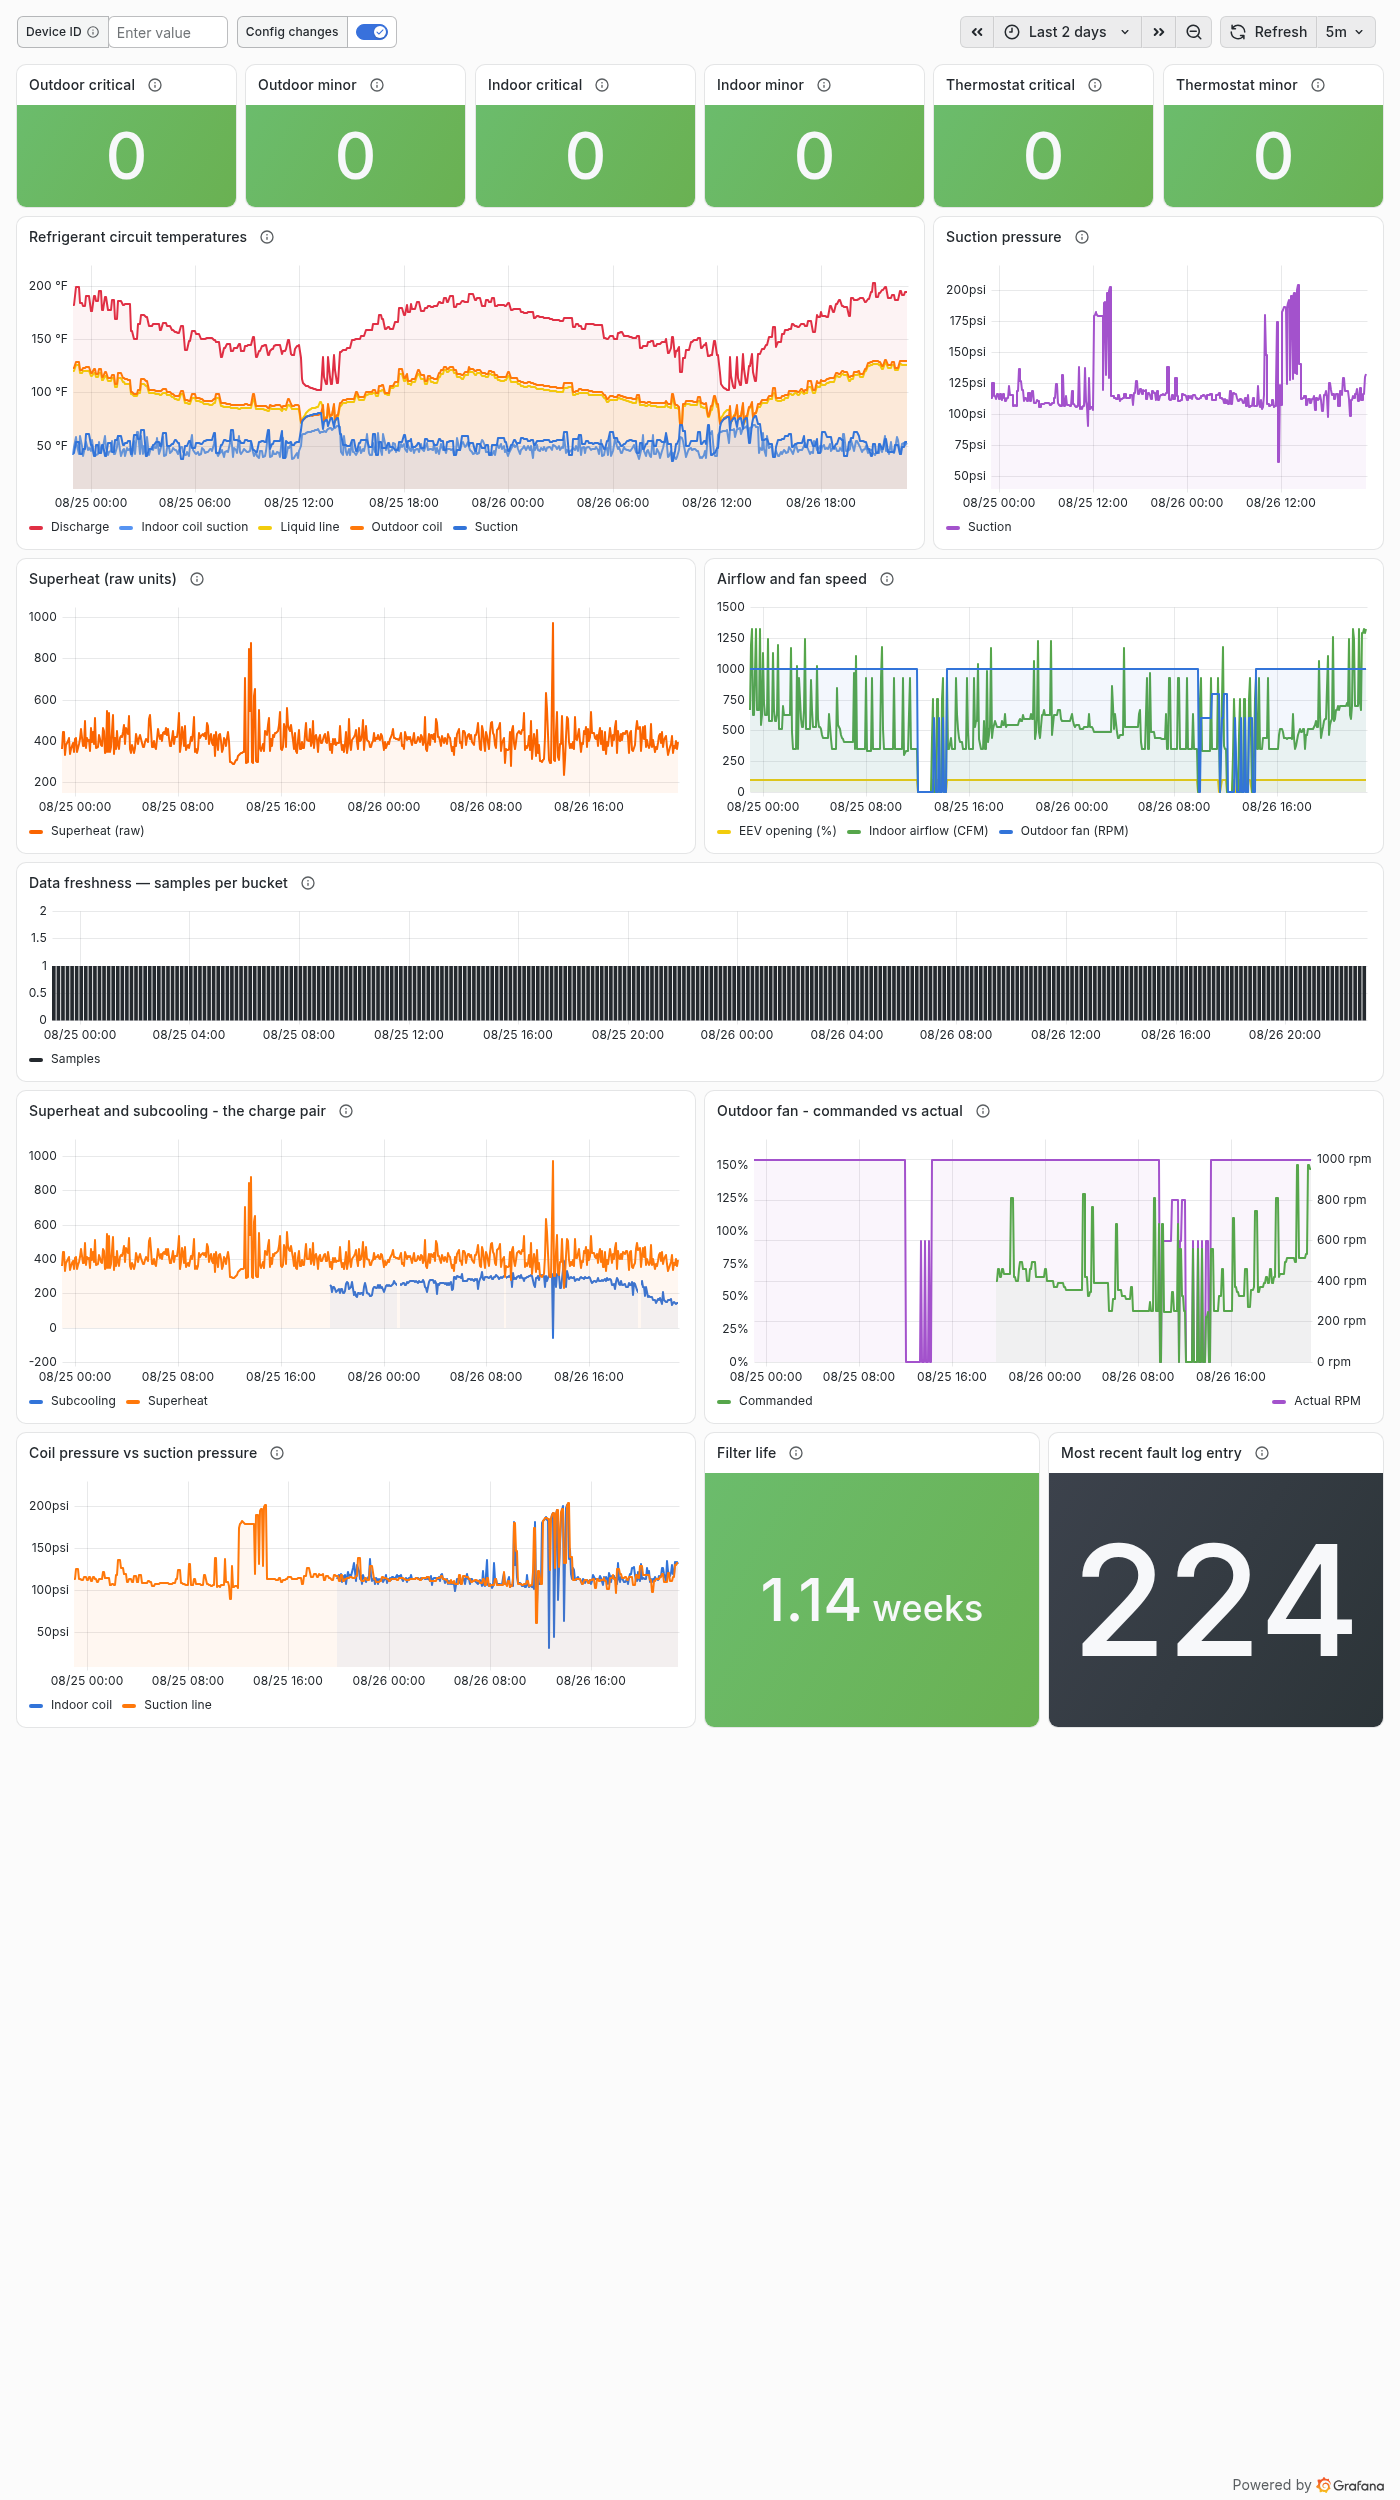
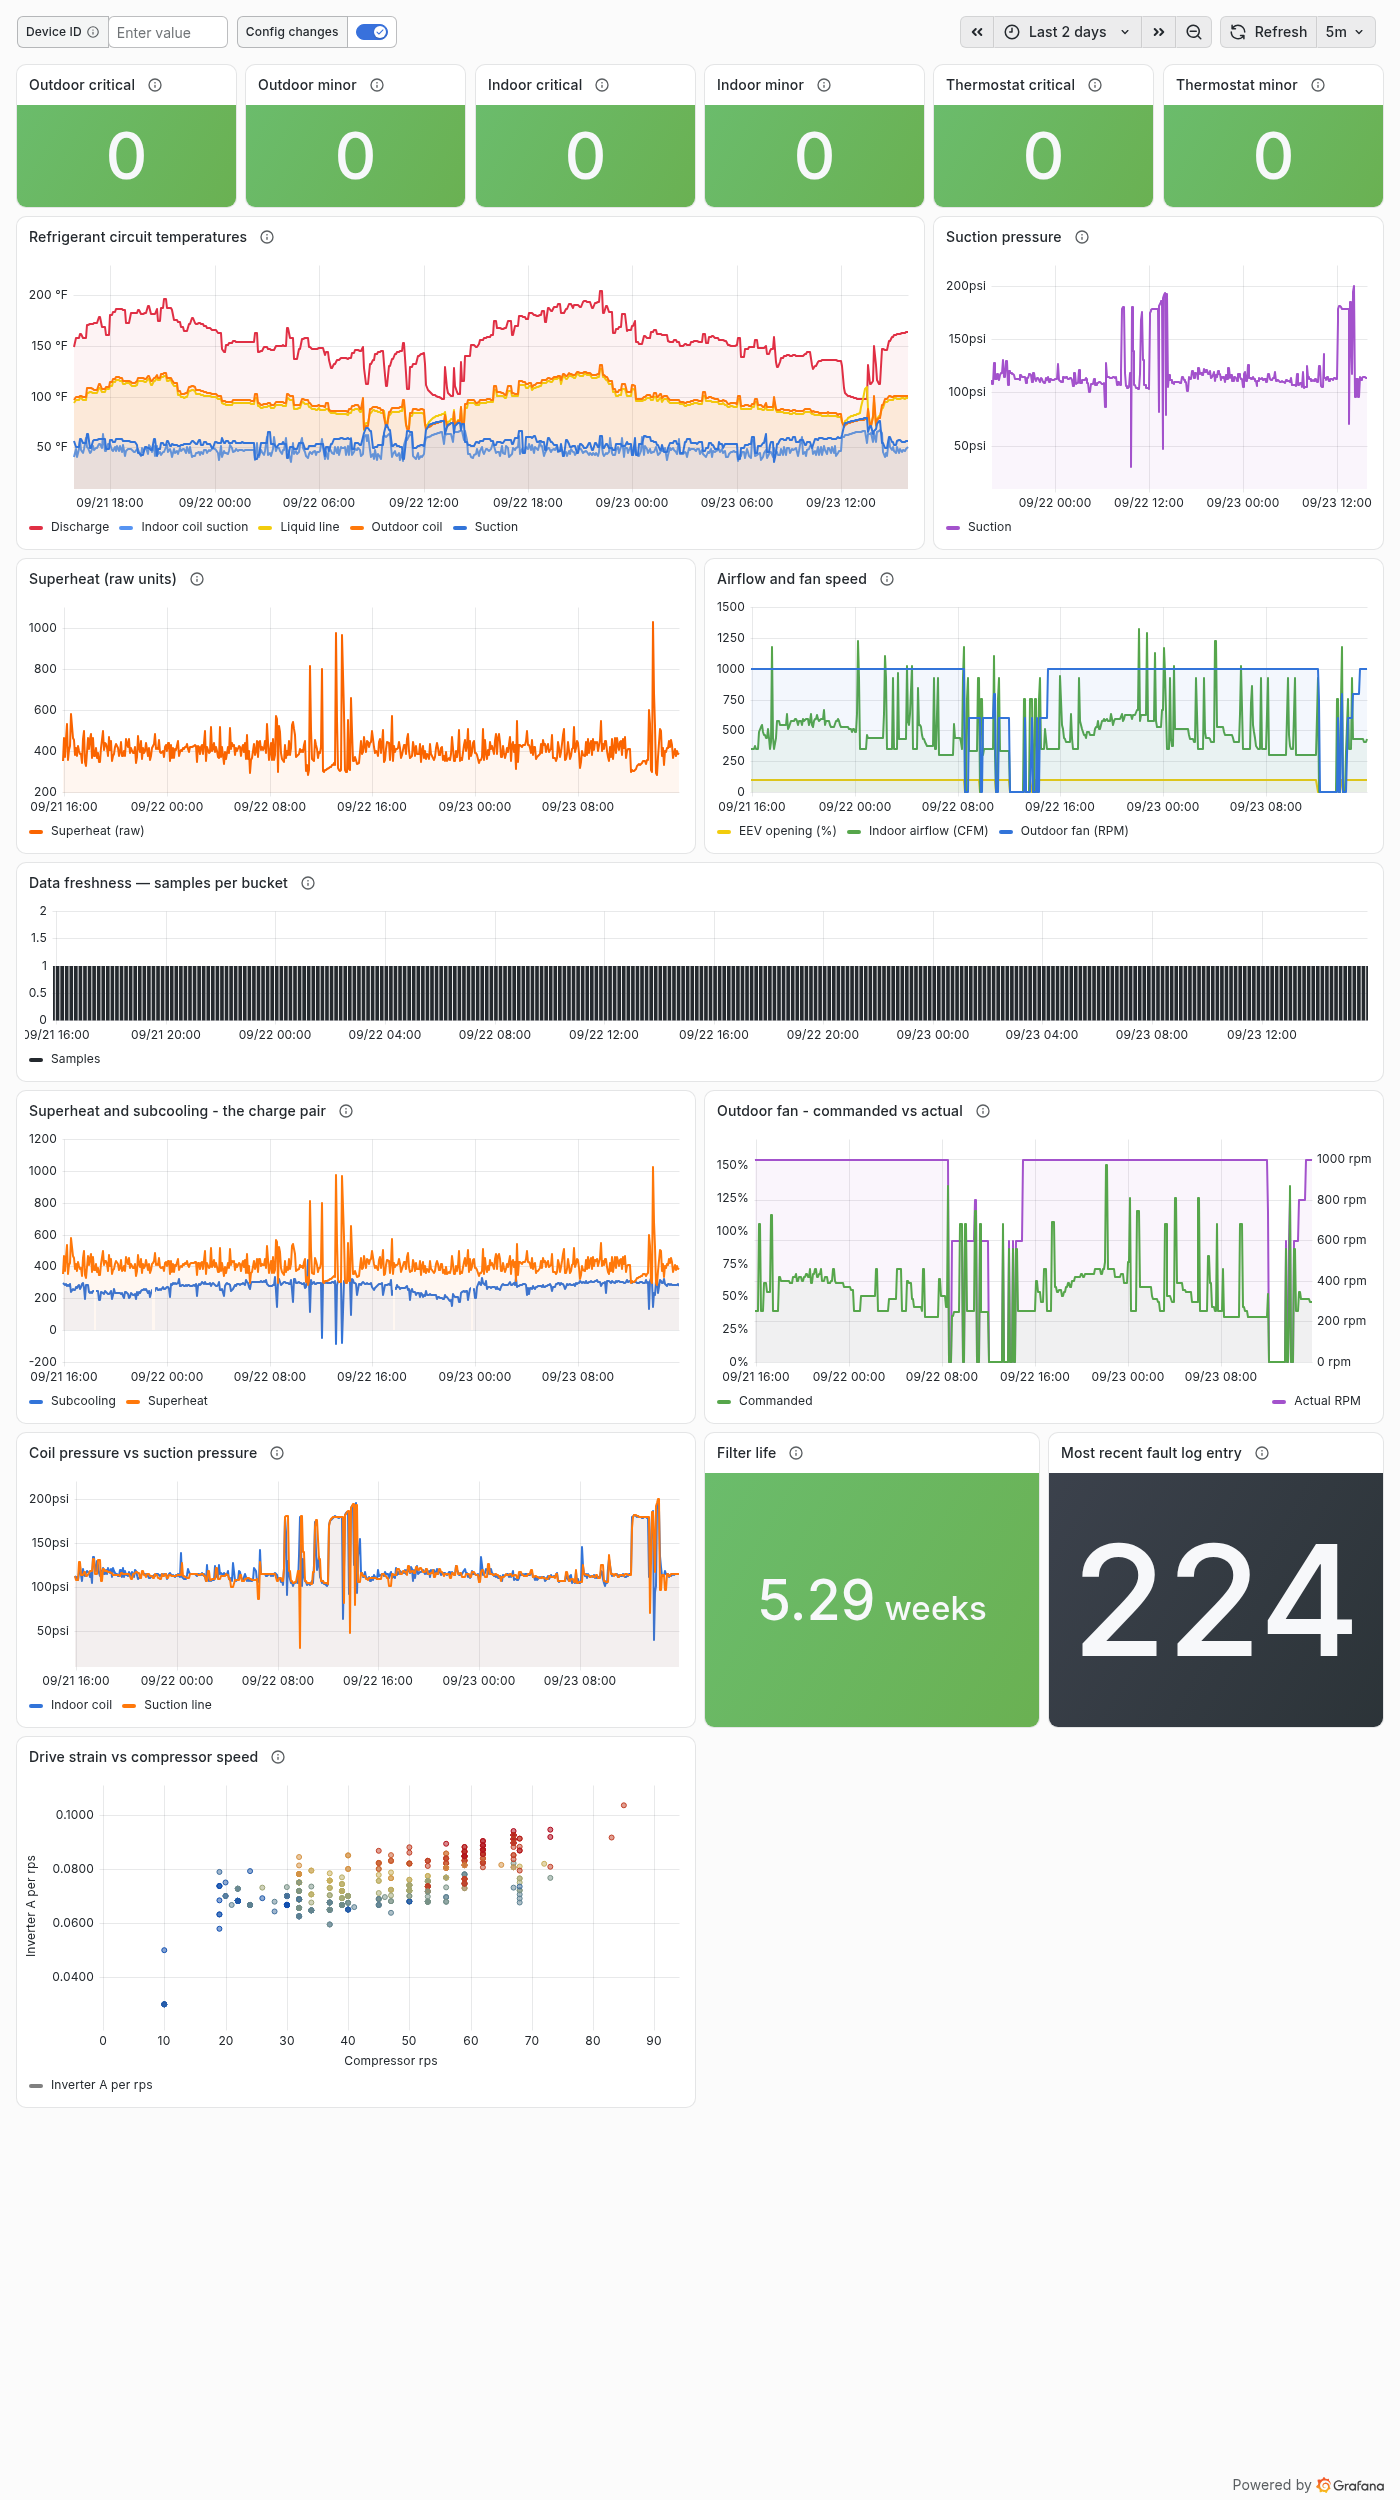
Add drive strain, and correct a false positive it exposed
Adds inverter_a_per_rps and compressor_a_per_rps to /api/series, plus a scatter
panel on the health dashboard.

The metric came out of investigating a humming noise, where comparing raw
inverter current at a "similar" operating point showed 2.6 A against 2.2 A
typical -- above the 95th percentile, and convincing. It was an artifact. The
band used to define "similar" was 28-36 rps, which is wide enough that the
current difference was speed rather than strain. Normalised by shaft speed the
same window sits at z = -1.57, below average. Nothing was wrong.

So the column exists, but its docstring now says what it is not. The ratio is
NOT load-independent: measured over a fortnight it climbs steadily with speed,
0.064 at 10-20 rps against 0.094 at 80-90, because drive and motor losses grow
faster than output does. Read as a time series it tracks the weather and
misleads exactly the way the raw current did.

The panel is therefore a scatter against rps rather than a trend. Within a
6-rps window the spread is tight (sd 0.004), so what signifies is a point
sitting above the established curve -- more electrical effort for the same
shaft speed than before, which is the early shape of a failing capacitor or a
degrading winding, well before a fault register trips. Colour is outdoor
temperature, because the band is visibly stratified by it and a hot-day
excursion should not read as a mechanical one.

Panel is literal for the same reason energy panel 8 is: xychart in manual
[…]

diff --git a/src/db/repo.ts b/src/db/repo.ts
@@ -743,6 +743,45 @@ function degreeHourClause(sampleSec: number, rate: number, bucket: number): stri
   ];
 }
 
+/**
+ * Inverter effort per unit of compressor speed.
+ *
+ * Current alone tracks how hard the compressor is working, which is mostly
+ * weather, so a high reading says "hot day" rather than "problem". Dividing by
+ * shaft speed removes most of that.
+ *
+ * It does NOT remove all of it, and the difference matters. Measured over a
+ * fortnight the ratio still climbs steadily with speed -- 0.064 at 10-20 rps
+ * against 0.094 at 80-90 -- because drive and motor losses grow faster than
+ * output does. So this is not a flat line with a fault threshold. It is only
+ * meaningful against other samples at the SAME speed, where the spread is
+ * tight (sd 0.004 within a 6-rps band). Read as a trend over time it will
+ * track the weather and mislead; read as a scatter against rps, a point
+ * sitting above the established curve is a drive working harder than it used
+ * to for the same output, which is what a failing capacitor or a degrading
+ * winding looks like before any fault register notices.
+ *
+ * This caveat is here because comparing raw current at a "similar" operating
+ * point produced a convincing false positive: a 28-36 rps band is wide enough
+ * that the current difference was speed, not strain.
+ *
+ * Averaged per sample rather than as a ratio of averages: a short excursion is
+ * exactly the thing worth catching, and dividing two bucket means would smooth
+ * it away. Below 5 rps the ratio divides by near-zero and means nothing, so it
+ * is NULL rather than a spike.
+ */
+function driveStrainClause(): string[] {
+  const live = 'sp_compressor_rps > 5';
+  return [
+    `ROUND(AVG(CASE WHEN ${live}
+                    THEN sp_inverter_current / 10.0 / sp_compressor_rps END), 4)
+       AS inverter_a_per_rps`,
+    `ROUND(AVG(CASE WHEN ${live}
+                    THEN sp_compressor_current / 10.0 / sp_compressor_rps END), 4)
+       AS compressor_a_per_rps`,
+  ];
+}
+
 /** The output name a select expression binds to, i.e. its trailing alias. */
 export function aliasOf(expr: string): string | null {
   return /\bAS\s+([A-Za-z_]\w*)\s*$/.exec(expr)?.[1] ?? null;
@@ -778,6 +817,7 @@ export function buildSelects(sampleSec = 300, rate = 0, bucket = 300): string[] 
     ...capacityClause(),
     ...airGradientClause(),
     ...capabilityClause(),
+    ...driveStrainClause(),
   ];
 }
 

diff --git a/scripts/gen_dashboards.py b/scripts/gen_dashboards.py
@@ -880,6 +880,102 @@ ENERGY += [
 ]
 
 
+# Panel 30 is literal for the same reason panel 8 on the energy dashboard
+# is: xychart in manual mapping mode renders "No data" with no error if
+# any of pluginVersion, defaults.color, the full custom block, or an
+# explicit colour on the y field is missing. This shape is copied from
+# one verified against a live render.
+HEALTH += [
+    {   'datasource': {'type': 'yesoreyeram-infinity-datasource', 'uid': '${DS_INFINITY}'},
+        'description': 'Inverter amps per rev/sec against compressor speed. Not a trend line: the '
+                       'ratio rises with speed by design -- 0.064 at 10-20 rps against 0.094 at '
+                       '80-90, because losses grow faster than output -- so a time series of it '
+                       'mostly tracks the weather. Plotted against speed instead, the points form '
+                       'a tight band (sd 0.004 within a 6-rps window), and what matters is a point '
+                       'sitting ABOVE the established curve: the drive needing more electrical '
+                       'effort for the same shaft speed than it used to. That is the early shape '
+                       'of a failing capacitor or a degrading winding, visible well before a fault '
+                       'register trips. Colour is outdoor temperature, so heat-driven excursions '
+                       'can be told apart from mechanical ones.',
+        'fieldConfig': {   'defaults': {   'color': {'mode': 'palette-classic'},
+                                           'custom': {   'axisBorderShow': False,
+                                                         'axisCenteredZero': False,
+                                                         'axisColorMode': 'text',
+                                                         'axisLabel': '',
+                                                         'axisPlacement': 'auto',
+                                                         'fillOpacity': 50,
+                                                         'hideFrom': {   'legend': False,
+                                                                         'tooltip': False,
+                                                                         'viz': False},
+                                                         'pointShape': 'circle',
+                                                         'pointSize': {'fixed': 5},
+                                                         'pointStrokeWidth': 1,
+                                                         'scaleDistribution': {'type': 'linear'},
+                                                         'show': 'points'},
+                                           'thresholds': {   'mode': 'absolute',
+                                                             'steps': [   {   'color': 'green',
+                                                                              'value': 0},
+                                                                          {   'color': 'red',
+                                                                              'value': 80}]},
+                                           'unit': ''},
+                           'overrides': [   {   'matcher': {   'id': 'byName',
+                                                               'options': 'Compressor rps'},
+                                                'properties': [{'id': 'unit', 'value': 'none'}]},
+                                            {   'matcher': {   'id': 'byName',
+                                                               'options': 'Inverter A per rps'},
+                                                'properties': [   {'id': 'unit', 'value': 'none'},
+                                                                  {'id': 'decimals', 'value': 4},
+                                                                  {   'id': 'color',
+                                                                      'value': {   'mode': 'fixed',
+                                                                                   'fixedColor': 'blue'}}]},
+                                            {   'matcher': {'id': 'byName', 'options': 'Outdoor'},
+                                                'properties': [   {   'id': 'unit',
+                                                                      'value': 'fahrenheit'},
+                                                                  {   'id': 'color',
+                                                                      'value': {   'mode': 'continuous-BlYlRd'}},
+                                                                  {'id': 'min', 'value': 70},
+                                                                  {'id': 'max', 'value': 105}]}]},
+        'gridPos': {'h': 10, 'w': 12, 'x': 0, 'y': 57},
+        'id': 30,
+        'options': {   'legend': {   'calcs': [],
+                                     'displayMode': 'list',
+                                     'placement': 'bottom',
+                                     'showLegend': True},
+                       'mapping': 'manual',
+                       'series': [   {   'frame': {'matcher': {'id': 'byIndex', 'options': 0}},
+                                         'x': {   'matcher': {   'id': 'byName',
+                                                                 'options': 'Compressor rps'}},
+                                         'y': {   'matcher': {   'id': 'byName',
+                                                                 'options': 'Inverter A per rps'}},
+                                         'color': {   'matcher': {   'id': 'byName',
+                                                                     'options': 'Outdoor'}}}],
+                       'tooltip': {'hideZeros': False, 'mode': 'single', 'sort': 'none'}},
+        'targets': [   {   'columns': [   {   'selector': 'sp_compressor_rps',
+                                              'text': 'Compressor rps',
+                                              'type': 'number'},
+                                          {   'selector': 'inverter_a_per_rps',
+                                              'text': 'Inverter A per rps',
+                                              'type': 'number'},
+                                          {   'selector': 'outdoor_f',
+                                              'text': 'Outdoor',
+                                              'type': 'number'}],
+                           'datasource': {   'type': 'yesoreyeram-infinity-datasource',
+                                             'uid': '${DS_INFINITY}'},
+                           'filters': [],
+                           'format': 'table',
+                           'parser': 'backend',
+                           'refId': 'A',
+                           'root_selector': '',
+                           'source': 'url',
+                           'type': 'json',
+                           'url': '/api/series?from=$__from&to=$__to&interval=$__interval_ms&device=$device&fields=sp_compressor_rps,inverter_a_per_rps,outdoor_f',
+                           'url_options': {'method': 'GET'}}],
+        'title': 'Drive strain vs compressor speed',
+        'type': 'xychart',
+        'pluginVersion': '13.3.0-32481267925'},
+]
+
+
 if __name__ == "__main__":
     import io
 
